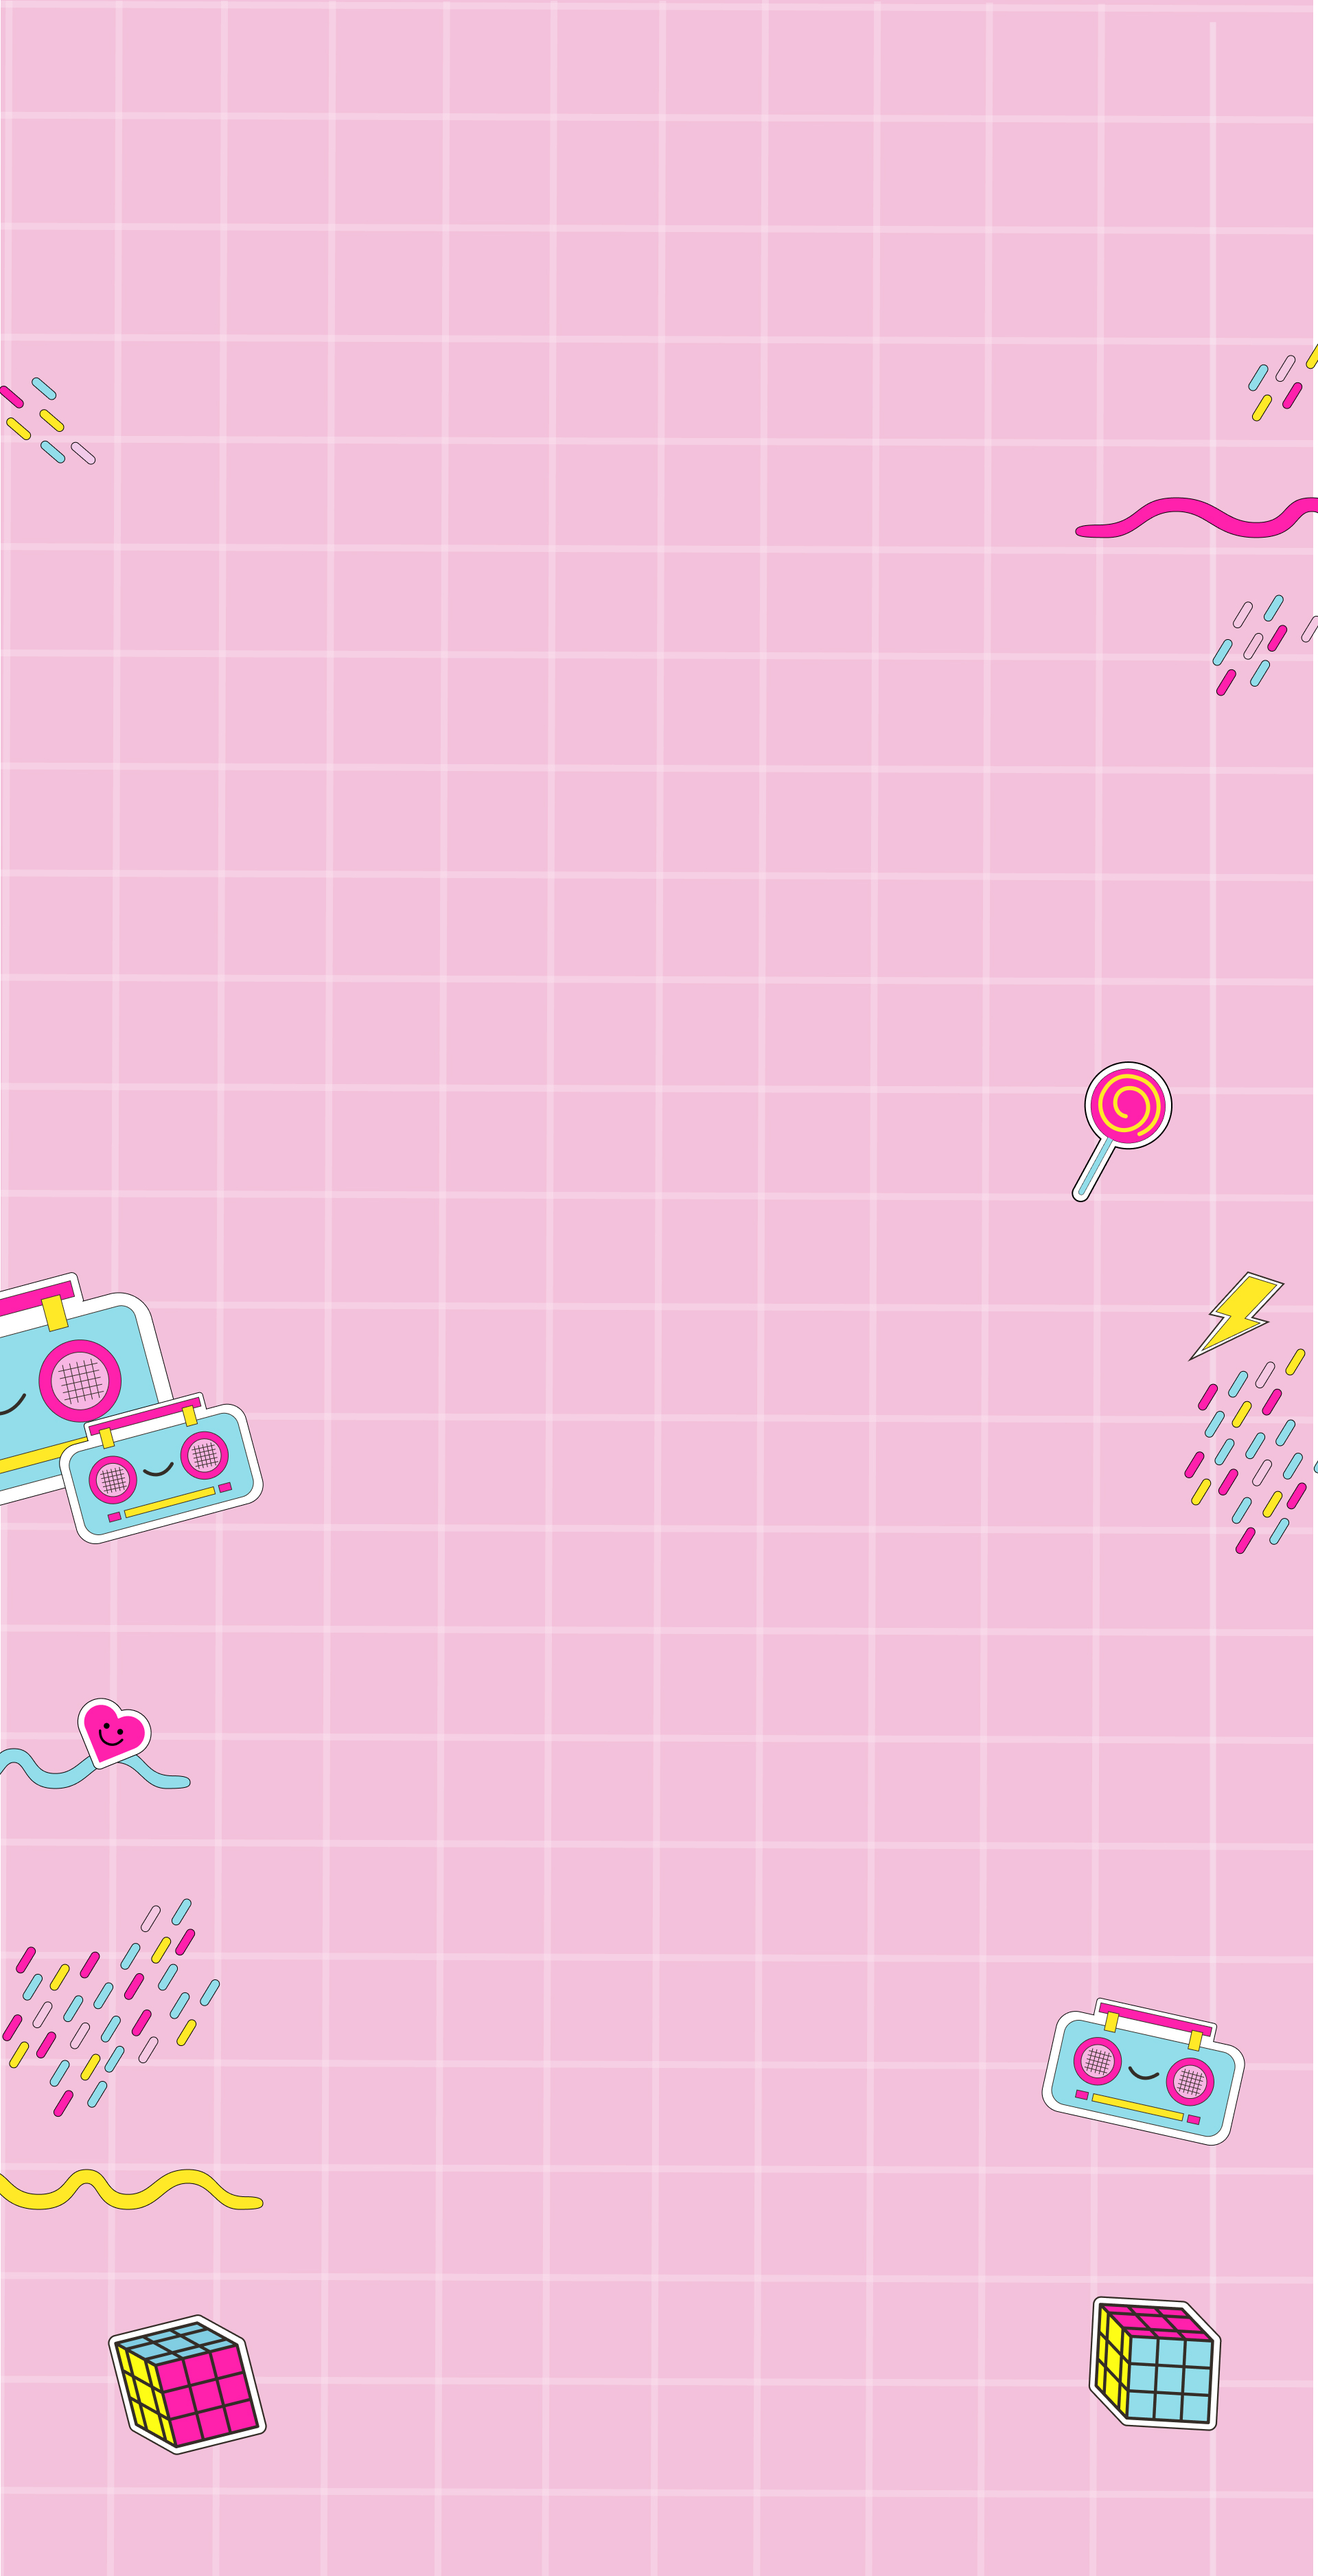
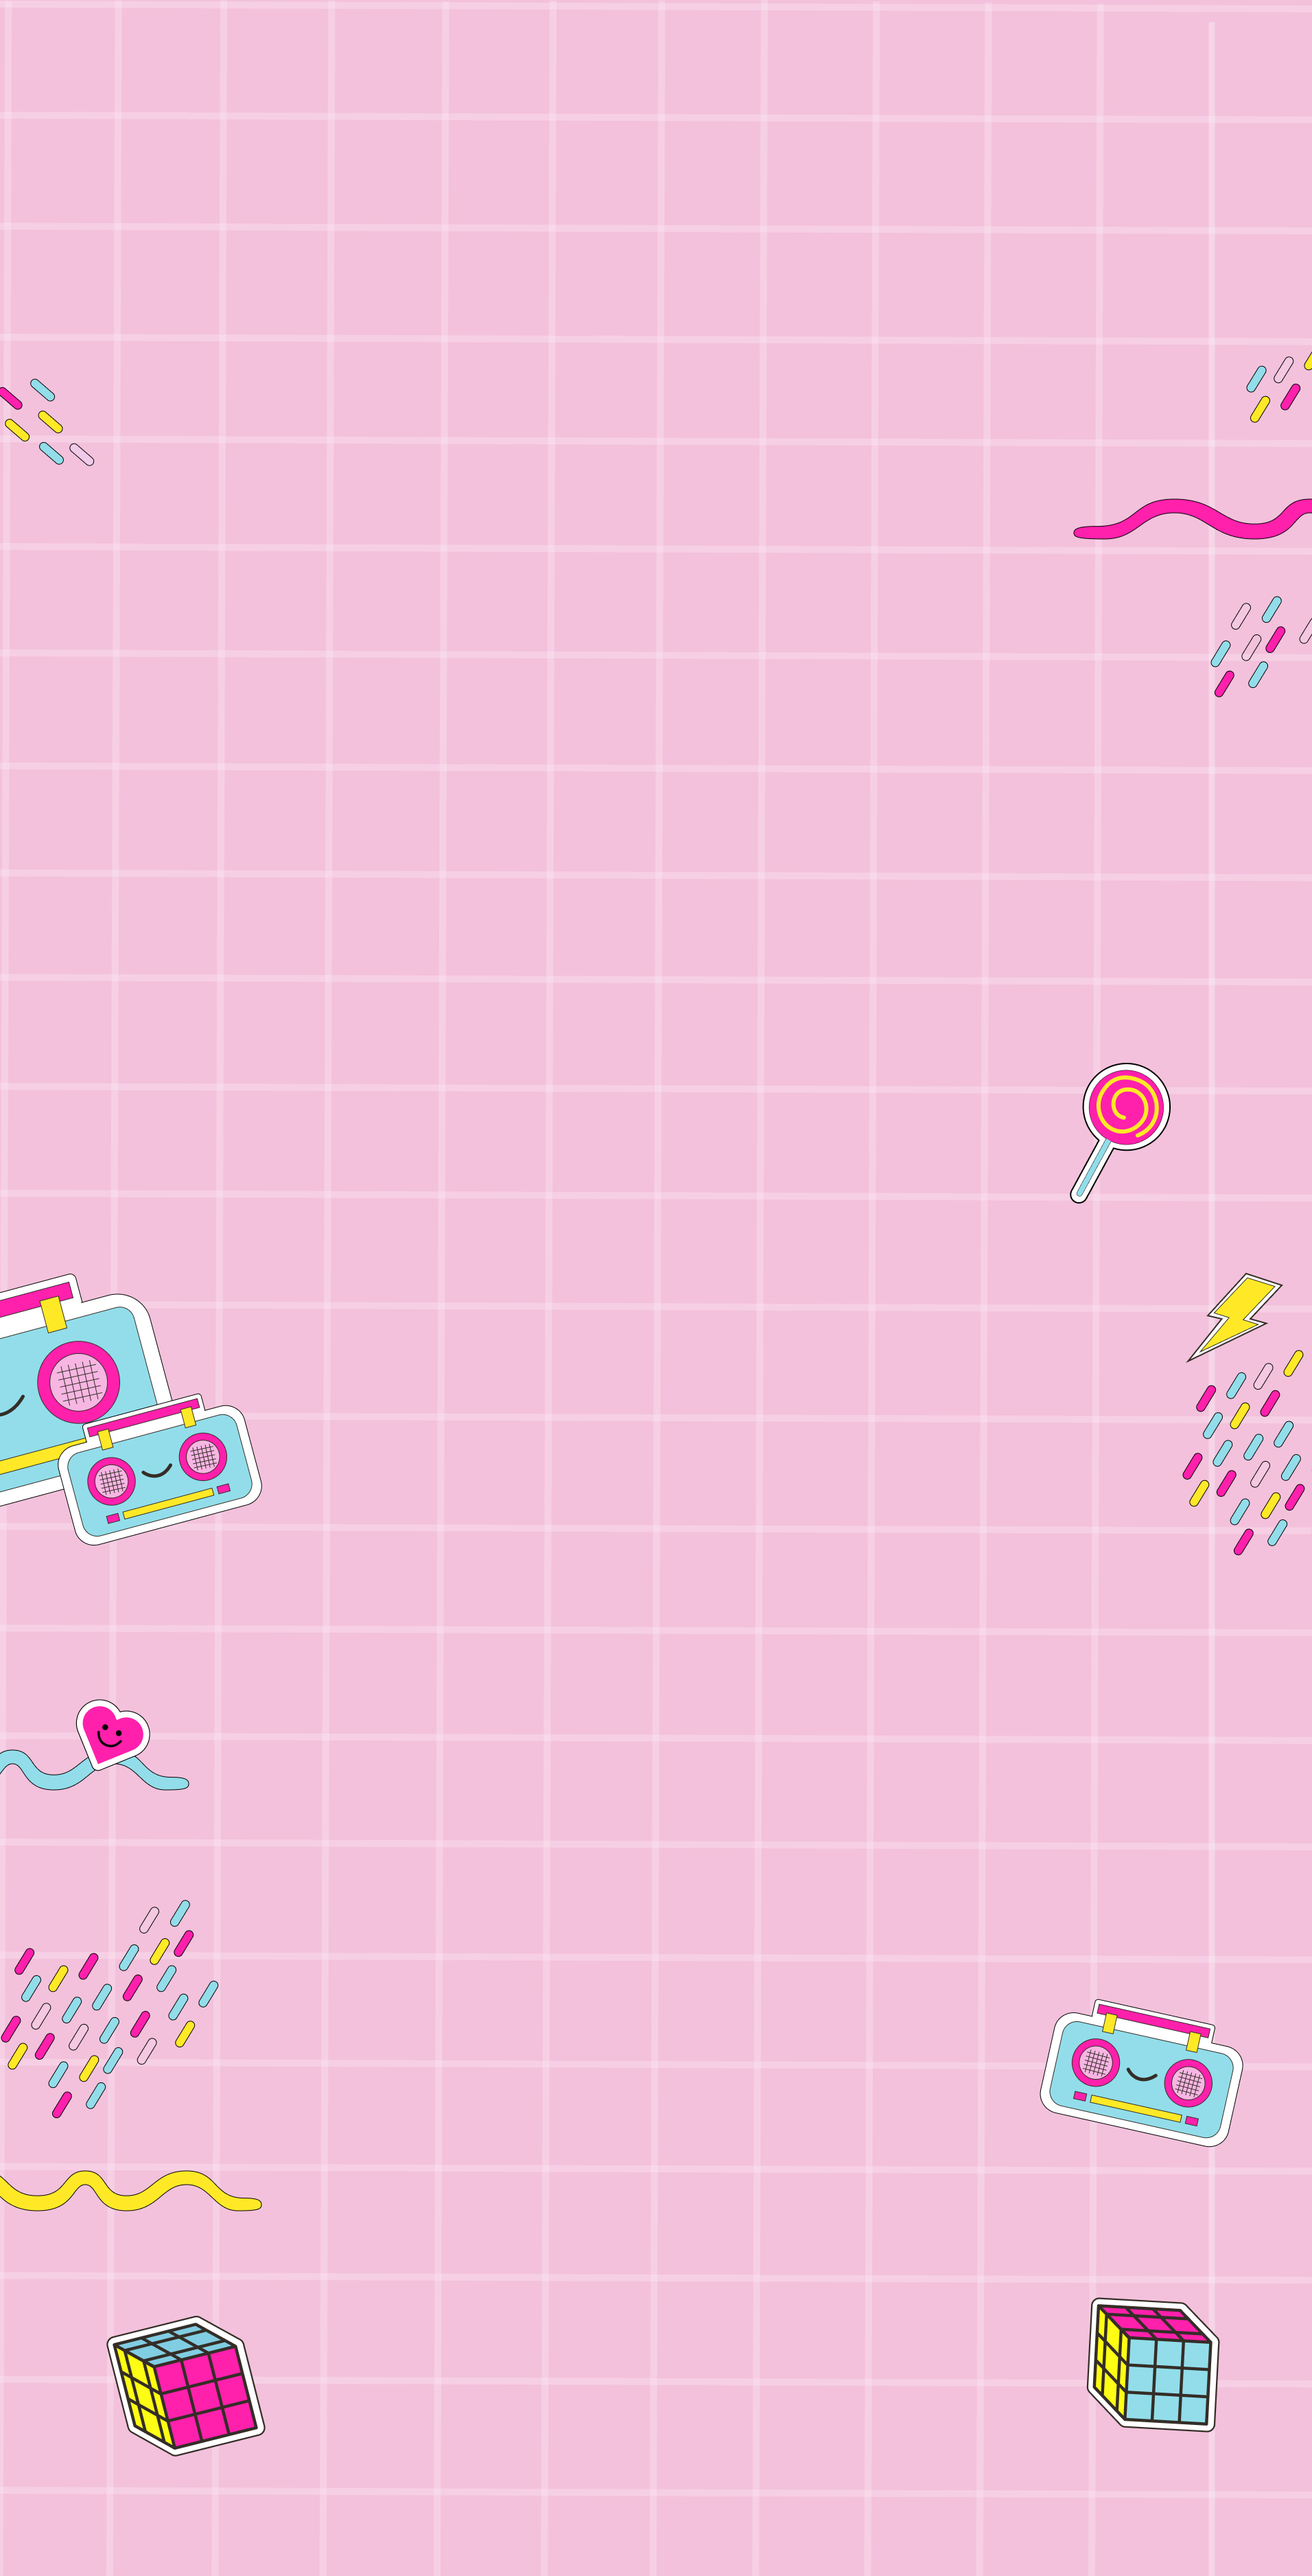
fondo y scrollfondo ajustado

diff --git a/estilos.css b/estilos.css
@@ -6,13 +6,14 @@
 	margin: 0px;
 	padding: 0px;
 	font-family: "Nunito";
-
-	background-attachment: fixed;
- 	background-repeat: no-repeat;
-	background-position: top left;
-	background-size:cover;
+	
 }
 body{
+	background-image: url("img/index/fondoindex.jpg");
+	background-attachment:scroll;
+ 	background-repeat: no-repeat;
+	background-position: top left;
+	background-size:contain;
 }
 /*-----------------header general-----------------*/
 
